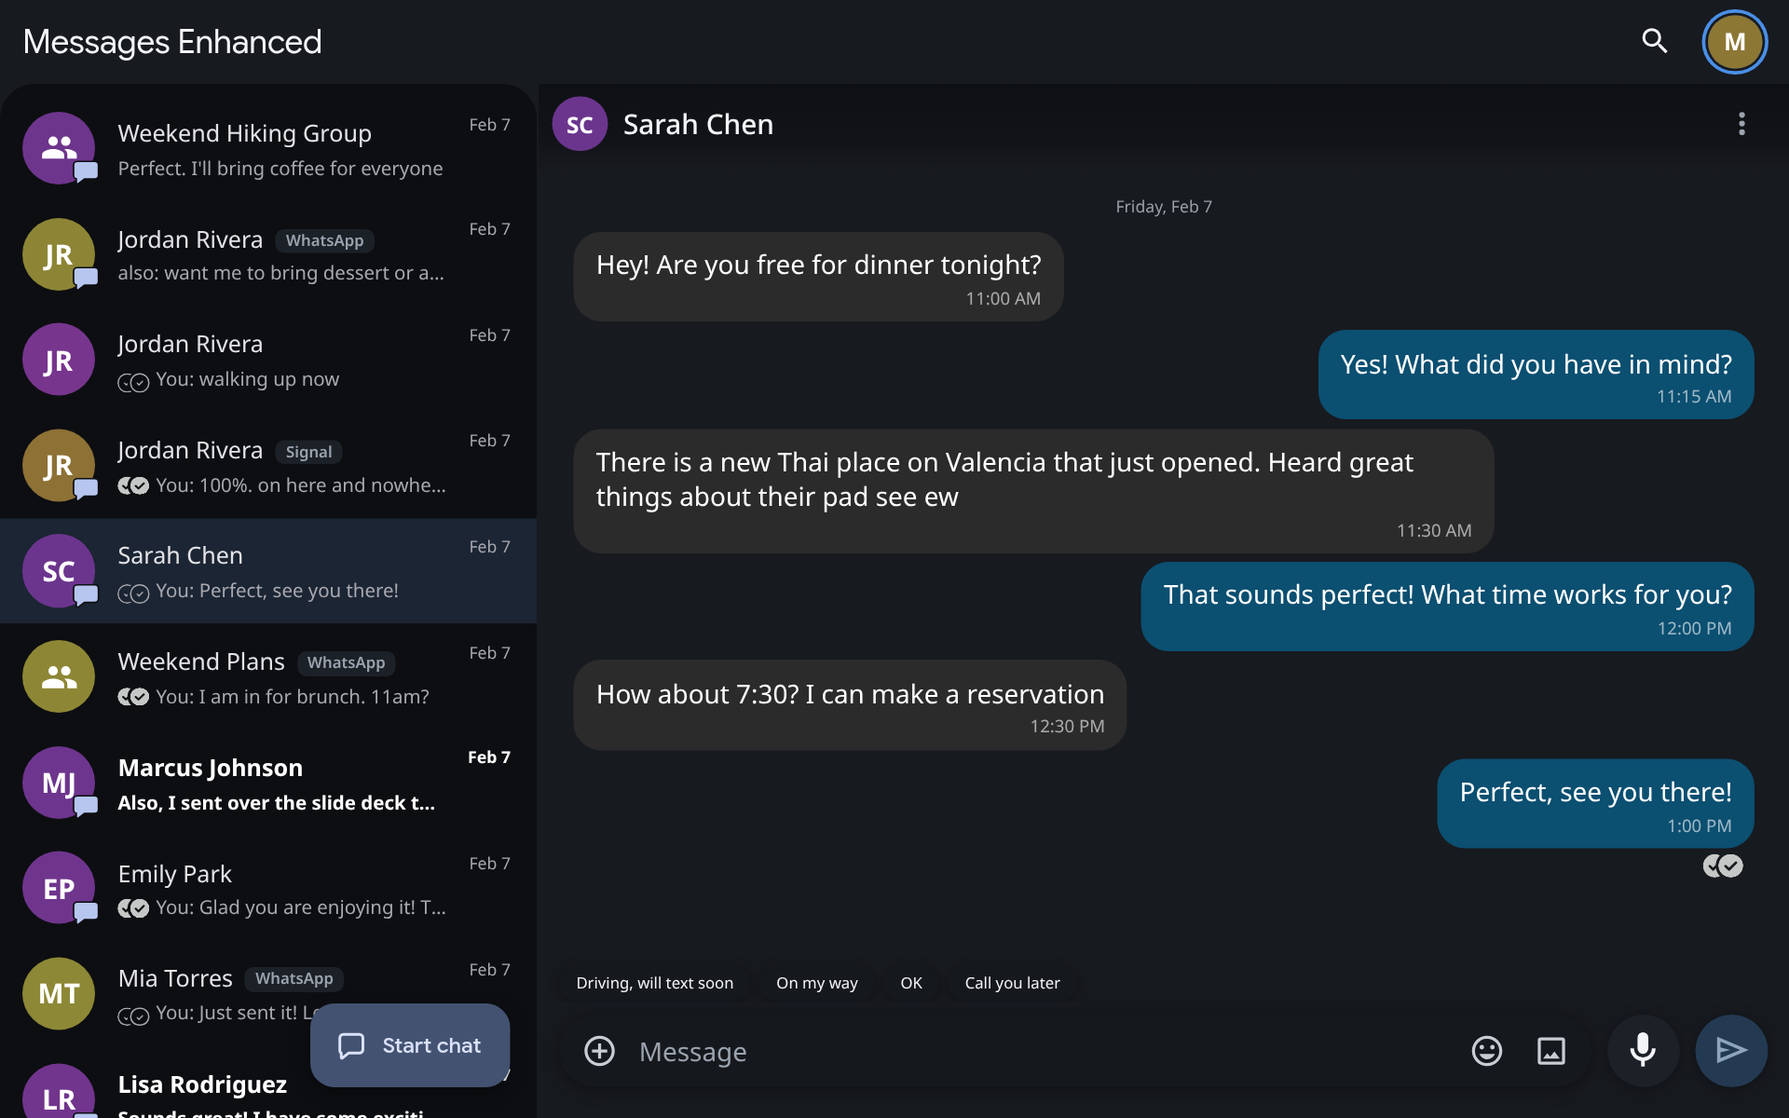
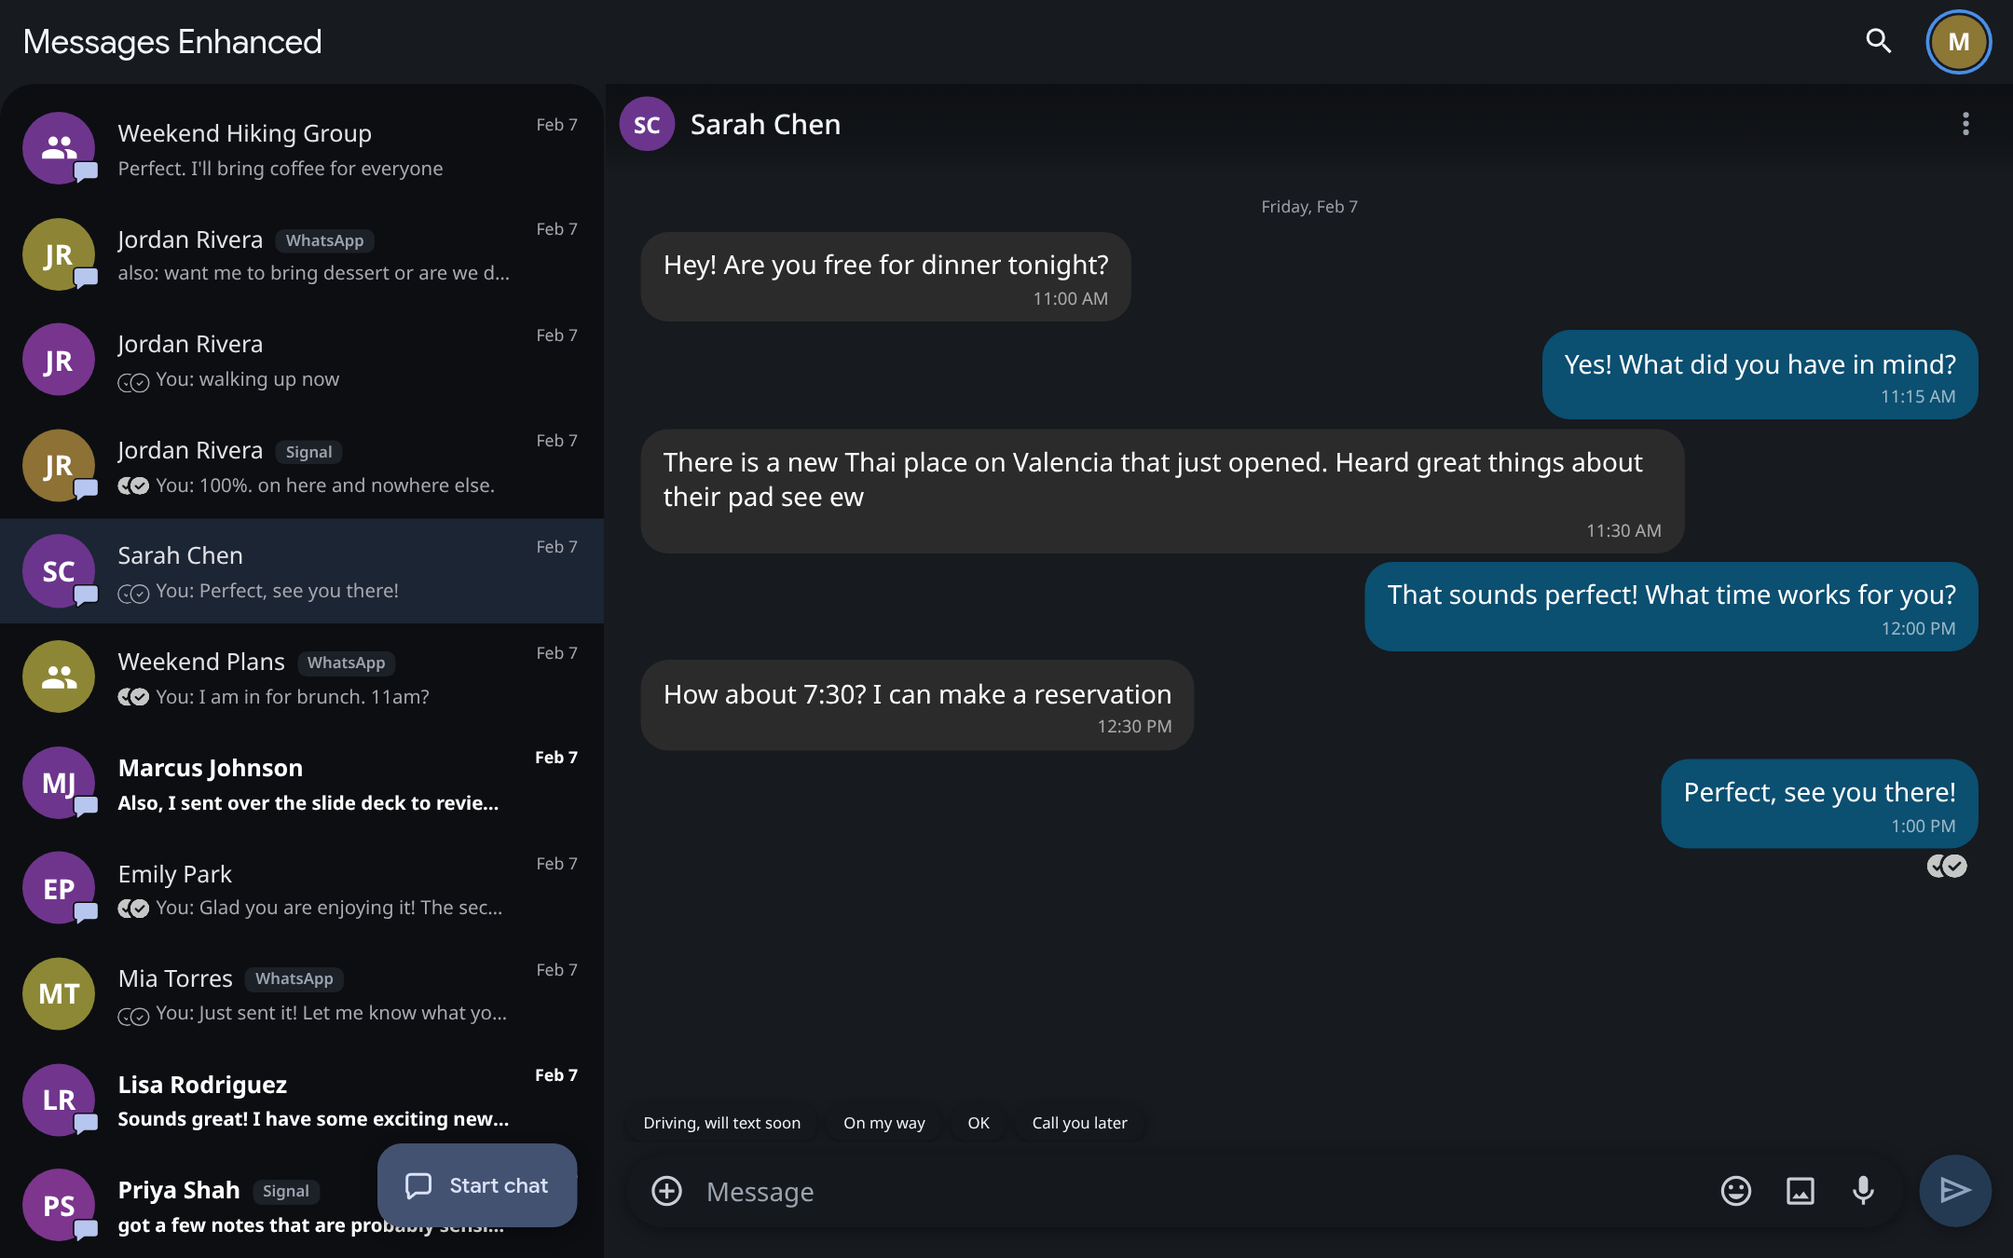
Car Mode title and menus, voice button in the field, inline dictation; README shots per mode
- Car Mode: title reads "Messages Enhanced" (Google Sans, no logo); no
  gear or top-bar menu: Settings is in the conversation ⋮, or the ⋮ in the
  empty conversation pane; connection dot only shown for a problem
- Voice button moves inside the message field (absent when voice is off)
- Dictation in one row: live words in the field with a thin red edge,
  Cancel and Edit (pulsing dot) inside the field, filled Send outside; no
  separate panel or visible timer (1-minute auto-stop kept)
- README: screenshots show each mode (tablet, laptop/desktop, Car Mode)
  plus the long-press menu; phone and per-feature shots removed

diff --git a/app/internal/webapp/static/index.html b/app/internal/webapp/static/index.html
@@ -60,6 +60,7 @@
 
     <section class="thread" aria-label="Conversation">
       <div id="threadEmpty" class="thread-empty">
+        <button id="emptyMenuBtn" class="msg-menu-btn conv-menu-btn empty-menu-btn" type="button" aria-label="More options" aria-haspopup="menu" aria-expanded="false" title="More"><span data-icon="more"></span></button>
         <div class="thread-empty-icon" data-icon="chat"></div>
         <p>Pick a conversation</p>
       </div>
@@ -86,10 +87,6 @@
           <span id="recLabel">Listening…</span>
           <span id="recTime" class="rec-time">0:00</span>
           <span id="recEngine" class="rec-engine"></span>
-          <div class="topbar-spacer"></div>
-          <button id="recCancel" class="btn btn-danger rec-act" type="button" aria-label="Cancel dictation" title="Cancel"><svg viewBox="0 0 24 24" aria-hidden="true"><path d="M19 6.41 17.59 5 12 10.59 6.41 5 5 6.41 10.59 12 5 17.59 6.41 19 12 13.41 17.59 19 19 17.59 13.41 12z"/></svg></button>
-          <button id="recEdit" class="btn rec-act" type="button" aria-label="Stop and edit the text" title="Edit"><svg viewBox="0 0 24 24" aria-hidden="true"><path d="M3 17.25V21h3.75L17.81 9.94l-3.75-3.75L3 17.25zM20.71 7.04a1 1 0 0 0 0-1.41l-2.34-2.34a1 1 0 0 0-1.41 0l-1.83 1.83 3.75 3.75 1.83-1.83z"/></svg></button>
-          <button id="recSend" class="btn btn-primary rec-act" type="button" aria-label="Stop and send now" title="Send"><svg viewBox="0 0 24 24" aria-hidden="true"><path d="M3 20V4l19 8-19 8zm2-3 11.85-5L5 7v3.5l6 1.5-6 1.5V17z"/></svg></button>
         </div>
         <div id="replyBar" class="reply-bar" hidden>
           <svg viewBox="0 0 24 24" class="reply-bar-icon" aria-hidden="true"><path d="M10 9V5l-7 7 7 7v-4.1c5 0 8.5 1.6 11 5.1-1-5-4-10-11-11z"/></svg>
@@ -112,7 +109,16 @@
           <div id="attachTray" class="attach-tray" role="group" aria-label="Attachments to send" hidden></div>
           <div class="compose-pill">
             <button id="plusBtn" class="pill-btn plus-btn" type="button" aria-label="More attachment options" title="Attach" aria-expanded="false" aria-controls="plusSheet"><svg viewBox="0 0 24 24" class="plus-ico" aria-hidden="true"><path d="M13 7h-2v4H7v2h4v4h2v-4h4v-2h-4V7zm-1-5C6.48 2 2 6.48 2 12s4.48 10 10 10 10-4.48 10-10S17.52 2 12 2zm0 18c-4.41 0-8-3.59-8-8s3.59-8 8-8 8 3.59 8 8-3.59 8-8 8z"/></svg><svg viewBox="0 0 24 24" class="x-ico" aria-hidden="true"><path d="M12 2C6.47 2 2 6.47 2 12s4.47 10 10 10 10-4.47 10-10S17.53 2 12 2zm5 13.59L15.59 17 12 13.41 8.41 17 7 15.59 10.59 12 7 8.41 8.41 7 12 10.59 15.59 7 17 8.41 13.41 12 17 15.59z"/></svg></button>
-            <div id="input" class="compose-input empty" contenteditable="true" role="textbox" aria-multiline="true" tabindex="0" data-placeholder="Message" enterkeyhint="send" autocapitalize="sentences" spellcheck="true" aria-label="Message"></div>
+            <div class="compose-field">
+              <button id="recCancel" class="rec-inline rec-cancel" type="button" aria-label="Cancel dictation" title="Cancel"><svg viewBox="0 0 24 24" aria-hidden="true"><path d="M19 6.41 17.59 5 12 10.59 6.41 5 5 6.41 10.59 12 5 17.59 6.41 19 12 13.41 17.59 19 19 17.59 13.41 12z"/></svg></button>
+              <div id="input" class="compose-input empty" contenteditable="true" role="textbox" aria-multiline="true" tabindex="0" data-placeholder="Message" enterkeyhint="send" autocapitalize="sentences" spellcheck="true" aria-label="Message"></div>
+              <button id="micBtn" class="btn-mic" type="button" aria-label="Dictate message" title="Dictate">
+                <svg viewBox="0 0 24 24" class="mic-icon" aria-hidden="true"><path d="M12 14a3 3 0 0 0 3-3V5a3 3 0 0 0-6 0v6a3 3 0 0 0 3 3zm5-3a5 5 0 0 1-10 0H5a7 7 0 0 0 6 6.92V21h2v-3.08A7 7 0 0 0 19 11h-2z"/></svg>
+                <svg viewBox="0 0 24 24" class="stop-icon" aria-hidden="true"><rect x="6" y="6" width="12" height="12" rx="2"/></svg>
+                <span class="spinner" aria-hidden="true"></span>
+              </button>
+              <button id="recEdit" class="rec-inline rec-edit" type="button" aria-label="Stop and edit the text" title="Edit"><svg viewBox="0 0 24 24" aria-hidden="true"><path d="M3 17.25V21h3.75L17.81 9.94l-3.75-3.75L3 17.25zM20.71 7.04a1 1 0 0 0 0-1.41l-2.34-2.34a1 1 0 0 0-1.41 0l-1.83 1.83 3.75 3.75 1.83-1.83z"/></svg></button>
+            </div>
             <button id="emojiBtn" class="btn-attach btn-emoji" type="button" aria-label="Emoji" title="Emoji" aria-expanded="false" aria-controls="emojiPanel"><span data-icon="emoji"></span></button>
             <button id="galleryBtn" class="pill-btn gallery-btn" type="button" aria-label="Photos and videos" title="Photos and videos"><svg viewBox="0 0 24 24" aria-hidden="true"><path d="M19 3H5a2 2 0 0 0-2 2v14a2 2 0 0 0 2 2h14a2 2 0 0 0 2-2V5a2 2 0 0 0-2-2zm0 16H5V5h14v14zm-5.04-6.71-2.75 3.54-1.96-2.36L6.5 17h11l-3.54-4.71z"/></svg></button>
           </div>
@@ -124,15 +130,13 @@
           <input id="galleryInput" type="file" accept="image/*,video/*" multiple hidden>
           <input id="cameraInput" type="file" accept="image/*" capture="environment" hidden>
           <input id="filesInput" type="file" multiple hidden>
-          <button id="micBtn" class="btn-mic" type="button" aria-label="Dictate message" title="Dictate">
-            <svg viewBox="0 0 24 24" class="mic-icon" aria-hidden="true"><path d="M12 14a3 3 0 0 0 3-3V5a3 3 0 0 0-6 0v6a3 3 0 0 0 3 3zm5-3a5 5 0 0 1-10 0H5a7 7 0 0 0 6 6.92V21h2v-3.08A7 7 0 0 0 19 11h-2z"/></svg>
-            <svg viewBox="0 0 24 24" class="stop-icon" aria-hidden="true"><rect x="6" y="6" width="12" height="12" rx="2"/></svg>
-            <span class="spinner" aria-hidden="true"></span>
-          </button>
           <button id="sendBtn" class="btn-send" type="submit" aria-label="Send" title="Send" disabled>
             <span class="send-ico"><svg viewBox="0 0 24 24" aria-hidden="true"><path d="M3 20V4l19 8-19 8zm2-3 11.85-5L5 7v3.5l6 1.5-6 1.5V17z"/></svg><svg class="send-lock" id="sendLock" viewBox="0 0 24 24" aria-hidden="true" hidden><path d="M18 8h-1V6A5 5 0 0 0 7 6v2H6a2 2 0 0 0-2 2v10a2 2 0 0 0 2 2h12a2 2 0 0 0 2-2V10a2 2 0 0 0-2-2zM9 6a3 3 0 0 1 6 0v2H9V6z"/></svg></span>
             <span class="send-proto" id="sendProto" hidden>SMS</span>
           </button>
+          <div id="recActs" class="rec-acts" role="group" aria-label="Dictation">
+            <button id="recSend" class="btn btn-primary rec-act" type="button" aria-label="Stop and send now" title="Send"><svg viewBox="0 0 24 24" aria-hidden="true"><path d="M3 20V4l19 8-19 8zm2-3 11.85-5L5 7v3.5l6 1.5-6 1.5V17z"/></svg></button>
+          </div>
         </form>
         <div id="plusSheet" class="plus-sheet" role="dialog" aria-label="Attach" hidden>
           <div class="plus-handle" aria-hidden="true"></div>

diff --git a/app/internal/webapp/static/app.css b/app/internal/webapp/static/app.css
@@ -1141,3 +1141,77 @@ html.desk .thread-view > .compose .compose-pill .compose-input:focus,
 html.desk .thread-view > .compose .compose-pill .compose-input:focus-visible { border: 0; box-shadow: none; background: transparent; outline: none; }
 html:not(.desk) .thread-view > .compose .compose-input:focus,
 html:not(.desk) .thread-view > .compose .compose-input:focus-visible { border-color: transparent; }
+
+/* Car Mode title: "Messages Enhanced" in Google Sans, no logo; the
+   connection dot only appears for a problem (same as non-car). */
+html:not(.desk) .brand-ico, html:not(.desk) .brand-car { display: none; }
+html:not(.desk) .brand-desk { display: inline; }
+html:not(.desk) .brand { font-family: "Google Sans", system-ui, sans-serif; font-weight: 500; font-size: 44px; letter-spacing: -.2px; }
+html:not(.desk) .topbar .conn-dot.conn-ok, html:not(.desk) .topbar .conn-dot.conn-muted,
+html:not(.desk) .topbar .conn-dot[data-state="Connecting"] { display: none; }
+
+/* No Settings gear anywhere: Settings is in the ⋮ menus. */
+.btn-gear { display: none !important; }
+/* Car Mode: no top-bar ⋮ either; with no conversation open, a ⋮ sits at the
+   top right of the empty conversation pane, exactly where the conversation
+   header's ⋮ (which has Settings) appears once one is open. */
+html:not(.desk) .app-menu-btn { display: none; }
+.thread-empty { position: relative; }
+.empty-menu-btn { display: none; }
+html:not(.desk) .empty-menu-btn { display: grid; position: absolute; top: 10px; right: 28px; margin: 0; }
+
+/* Dictation (both modes): the field keeps the live transcript (or
+   "Listening…"), with a thin red edge. Inside the field: Cancel (X) at the
+   left, in place of + / emoji / gallery, and Edit (pencil, with a pulsing
+   red dot = listening) at the right, where the mic was. Outside: only the
+   round Send, filled (active) while recording; it sends the transcript. */
+.rec-acts { display: none; flex: none; align-items: center; }
+body.rec-ui .rec-acts { display: flex; }
+body.rec-ui #micBtn, body.rec-ui #sendBtn, body.rec-ui #attachBtn, body.rec-ui #emojiBtn,
+body.rec-ui #plusBtn, body.rec-ui #galleryBtn { display: none !important; }
+.rec-acts #recSend { width: 96px; height: 96px; border-radius: 50%; background: var(--accent); color: #fff; box-shadow: 0 2px 12px rgba(0, 0, 0, .4); }
+.rec-acts #recSend svg { width: 46px; height: 46px; }
+html.desk .rec-acts #recSend { width: 84px; height: 84px; box-shadow: none; }
+html.desk .rec-acts #recSend svg { width: 40px; height: 40px; }
+.rec-inline { display: none; flex: none; place-items: center; position: relative; width: 88px; height: 88px; margin: 2px 0; padding: 0; border: 0;
+  border-radius: 50%; background: transparent; color: #c9cdd3; cursor: pointer; touch-action: manipulation; -webkit-tap-highlight-color: transparent; }
+body.rec-ui .rec-inline { display: grid; }
+.rec-inline svg { width: 46px; height: 46px; fill: currentColor; }
+.rec-inline:active, .rec-inline.pending { background: rgba(255, 255, 255, .12); }
+html.desk .rec-inline { width: 72px; height: 72px; margin: 0; }
+html.desk .rec-inline svg { width: 38px; height: 38px; }
+.rec-cancel { order: -1; margin-left: 4px; }
+html.desk .rec-cancel { margin-left: 0; }
+html.desk .compose-pill .rec-edit { order: 3; }
+html:not(.desk) .rec-edit { margin-right: 4px; }
+.rec-edit::after { content: ""; position: absolute; top: 13%; right: 12%; width: 20%; height: 20%; border-radius: 50%;
+  background: var(--danger); box-shadow: 0 0 0 3px var(--panel); animation: pulse 1.1s ease-in-out infinite; }
+body.rec-busy .rec-edit::after { display: none; }
+body.rec-ui .compose-input.empty::before { content: "Listening…"; }
+body.rec-busy .compose-input.empty::before { content: "Transcribing…"; }
+html.desk body.rec-ui .thread-view > .compose > .compose-pill { box-shadow: 0 0 0 2px rgba(229, 72, 77, .85), 0 3px 19px rgba(0, 0, 0, .4); }
+html:not(.desk) body.rec-ui .thread-view > .compose .compose-field > .compose-input { padding-left: 6px; }
+html:not(.desk) body.rec-ui .thread-view > .compose .compose-field > .compose-input.empty::before { left: 6px; }
+
+/* Voice button inside the message field (when voice typing is shown).
+   Non-car: an icon at the right of the pill, after emoji and gallery.
+   Car Mode: the field itself (.compose-field) is the rounded box, with the
+   mic as a car-sized icon button inside it on the right. Send stays round
+   outside; while dictating the mic is hidden (Cancel/Edit/Send row). */
+.compose-field { display: contents; }
+html.desk .compose-pill .btn-emoji { order: 1; }
+html.desk .compose-pill .gallery-btn { order: 2; }
+html.desk .compose-pill .btn-mic { order: 3; }
+html.desk .thread-view > .compose .compose-pill .btn-mic { flex: none; width: 72px; height: 72px; background: transparent; box-shadow: none; }
+html.desk .compose-pill .btn-mic svg { width: 42px; height: 42px; fill: #c9cdd3; }
+html.desk .compose-pill .btn-mic:active { background: rgba(255, 255, 255, .1); transform: none; }
+html:not(.desk) .thread-view > .compose .compose-field { display: flex; align-items: flex-end; flex: 1; min-width: 0; border: 2px solid transparent;
+  border-radius: 48px; background: var(--panel); box-shadow: 0 2px 14px rgba(0, 0, 0, .45); }
+html:not(.desk) .thread-view > .compose .compose-field > .compose-input { flex: 1; min-height: 92px; border: 0 !important; border-radius: 0;
+  background: transparent; box-shadow: none; padding-right: 6px; }
+html:not(.desk) .thread-view > .compose .compose-field > .btn-mic { flex: none; width: 88px; height: 88px; margin: 2px 4px 2px 0;
+  background: transparent; box-shadow: none; }
+html:not(.desk) .compose-field > .btn-mic svg { width: 48px; height: 48px; fill: #c9cdd3; }
+html:not(.desk) .compose-field > .btn-mic:active { background: rgba(255, 255, 255, .1); }
+html:not(.desk) body.rec-ui .thread-view > .compose .compose-field { border-color: rgba(229, 72, 77, .85); }
+html:not(.desk) .thread-view > .compose .compose-field:has(.drop-target) { border-color: var(--accent); border-style: dashed; }

diff --git a/app/internal/webapp/static/app.js b/app/internal/webapp/static/app.js
@@ -748,18 +748,19 @@
     $("convMenuArchiveLabel").textContent = archived ? "Unarchive" : "Archive";
     arch.dataset.archived = archived ? "1" : "";
     $("convMenuTrash").hidden = !google;
-    // Non-car: the header's mute bell and the Settings gear live in this menu.
+    // Non-car: the header's mute bell lives in this menu too.
     var inHeader = btn.id === "convMenuBtn" && isDesk();
     $("convMenuMute").hidden = !inHeader;
     $("convMenuMuteLabel").textContent = $("muteBtn").classList.contains("muted") ? "Unmute notifications" : "Mute notifications";
-    $("convMenuSettings").hidden = !inHeader;
+    // Settings is in the conversation header's ⋮ in every mode (no gear).
+    $("convMenuSettings").hidden = btn.id !== "convMenuBtn";
     var menu = $("convMenu");
     menu.hidden = false;
     placePopover(menu, anchor);
   }
   function closeAppMenu() {
     if ($("appMenu").hidden) return false;
-    $("appMenu").hidden = true; $("appMenuBtn").setAttribute("aria-expanded", "false"); $("profileBtn").setAttribute("aria-expanded", "false");
+    $("appMenu").hidden = true; $("appMenuBtn").setAttribute("aria-expanded", "false"); $("profileBtn").setAttribute("aria-expanded", "false"); $("emptyMenuBtn").setAttribute("aria-expanded", "false");
     return true;
   }
   function closeConvMenu() {
@@ -3757,7 +3758,13 @@
     if (s) b.classList.add(s);
     b.setAttribute("aria-label", s === "recording" ? "Stop dictating" : s === "busy" ? "Transcribing" : "Dictate message");
     b.disabled = s === "busy";
-    $("recBar").hidden = s !== "recording" && s !== "busy";
+    // Dictation lives in the composer row: the box shows the live words (or
+    // "Listening…"), a thin red edge marks recording, and Cancel / Edit /
+    // Send replace the mic and Send buttons. The old panel stays hidden
+    // (its timer still drives the 1-minute auto-stop, invisibly).
+    $("recBar").hidden = true;
+    document.body.classList.toggle("rec-ui", s === "recording" || s === "busy");
+    document.body.classList.toggle("rec-busy", s === "busy");
     $("recLabel").textContent = s === "busy" ? "Transcribing…" : "Listening… tap Done when finished";
     if (!s) { state.afterRec = ""; }
     $("recEdit").classList.toggle("pending", state.afterRec === "edit");
@@ -5184,8 +5191,10 @@
     $("convMenuMute").addEventListener("click", function () { closeConvMenu(); toggleMute(); });
     $("convMenuSettings").addEventListener("click", function () { closeConvMenu(); showSettings(true); });
     // Non-car conversation list: Settings sits under the top bar's ⋮.
-    // The app menu opens from ⋮ (Car Mode) or the profile photo (non-car).
-    ["appMenuBtn", "profileBtn"].forEach(function (id) {
+    // The app menu (Settings) opens from the profile photo (non-car) or, in
+    // Car Mode with no conversation open, the ⋮ in the empty conversation
+    // pane (where the conversation header's ⋮ sits once one is open).
+    ["appMenuBtn", "profileBtn", "emptyMenuBtn"].forEach(function (id) {
       $(id).addEventListener("click", function () {
         var m = $("appMenu");
         if (!m.hidden) { closeAppMenu(); return; }
@@ -5221,7 +5230,7 @@
     })();
     $("appMenuSettings").addEventListener("click", function () { closeAppMenu(); showSettings(true); });
     document.addEventListener("pointerdown", function (e) {
-      if ($("appMenu").hidden || $("appMenu").contains(e.target) || $("appMenuBtn").contains(e.target) || $("profileBtn").contains(e.target)) return;
+      if ($("appMenu").hidden || $("appMenu").contains(e.target) || $("appMenuBtn").contains(e.target) || $("profileBtn").contains(e.target) || $("emptyMenuBtn").contains(e.target)) return;
       closeAppMenu();
     }, true);
     $("convMenuPin").addEventListener("click", function () {

diff --git a/README.md b/README.md
@@ -10,24 +10,27 @@ Many thanks to that project, and to the mautrix-gmessages authors.
 
 ## Screenshots
 
-All screenshots use the built-in demo data (`serve --demo`); the names and
+Messages Enhanced is made for tablets, laptops and car screens. All
+screenshots use the built-in demo data (`serve --demo`); the names and
 messages are made up.
 
-| Home screen (phone) | Conversation: "Read by" in a group |
-|---|---|
-| ![Home screen](docs/screenshots/home.png) | ![Group conversation with Read by](docs/screenshots/conversation.png) |
-| **Swipe left for times, read-receipt checks** | **Long-press menu** |
-| ![Swipe timestamps](docs/screenshots/swipe-times.png) | ![Long-press menu](docs/screenshots/long-press.png) |
-| **(+) attachment sheet** | **Chat theme** |
-| ![Attachment sheet](docs/screenshots/plus-sheet.png) | ![Chat theme picker](docs/screenshots/theme.png) |
+**Tablet** (1280×800, Car Mode off): conversation list and an RCS group with
+"Read by"
 
-| Car Mode (car screen) |
-|---|
-| ![Car Mode](docs/screenshots/car-mode.png) |
+![Tablet layout](docs/screenshots/tablet.png)
 
-| Tablet / desktop layout (Car Mode off) |
-|---|
-| ![Desktop layout](docs/screenshots/desktop.png) |
+**Laptop / desktop** (1440×900)
+
+![Desktop layout](docs/screenshots/desktop.png)
+
+**Car Mode** (1920×1200, attachment and emoji buttons turned off in Settings)
+
+![Car Mode](docs/screenshots/car-mode.png)
+
+**Long-press menu** (tablet): reactions, reply, forward, copy, star, delete,
+select more, info
+
+![Long-press menu](docs/screenshots/tablet-menu.png)
 
 ## What's here
 
@@ -69,8 +72,8 @@ messages are made up.
     round photos, RCS badges, "You:" previews with status checks, pin icons,
     a search button, your Google account photo as the menu button, and a
     floating "Start chat" button plus scroll-to-top; a pill composer with a
-    (+) sheet (Gallery, Camera, Files), emoji and gallery buttons, voice
-    typing and an always-visible Send button
+    (+) sheet (Gallery, Camera, Files), emoji, gallery and voice buttons,
+    and an always-visible Send button
   - Google Messages-style read receipts: sending / sent / delivered / read /
     failed icons under your latest message (tap a bubble for the time and
     status), and in RCS groups "Read by Alice, Bob" with small photos until
@@ -81,7 +84,11 @@ messages are made up.
     reloads itself after the server is updated
   - Car Mode gets the same bubble colors, grouping, sender names and photos,
     and read-receipt icons, with large touch targets and visible buttons
-    instead of gestures
+    instead of gestures; its title bar is just "Messages Enhanced", and
+    Settings is in the ⋮ menu
+  - voice typing from a mic button inside the message field: while it
+    listens, the live words appear in the field (thin red edge) with Cancel
+    and Edit inside it and Send outside; it stops on its own after a minute
   See [`app/GUIDE.md`](app/GUIDE.md) for details.
 - **`extension/`**: "Messages Enhanced Cookie Sender", a small Chrome extension
   that sends your Google Messages sign-in cookies to your own Messages Enhanced
